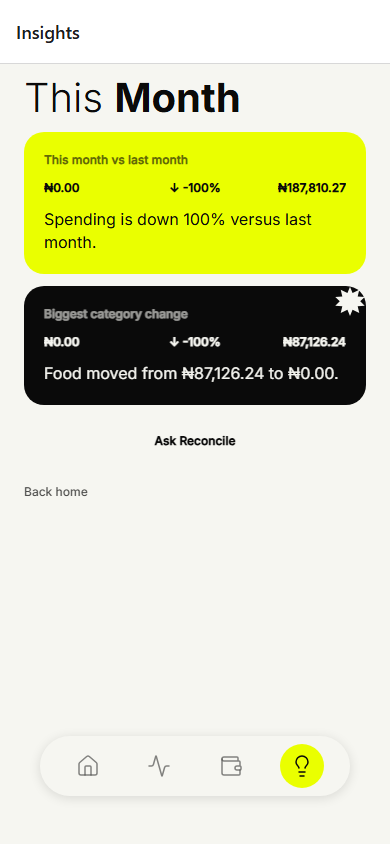
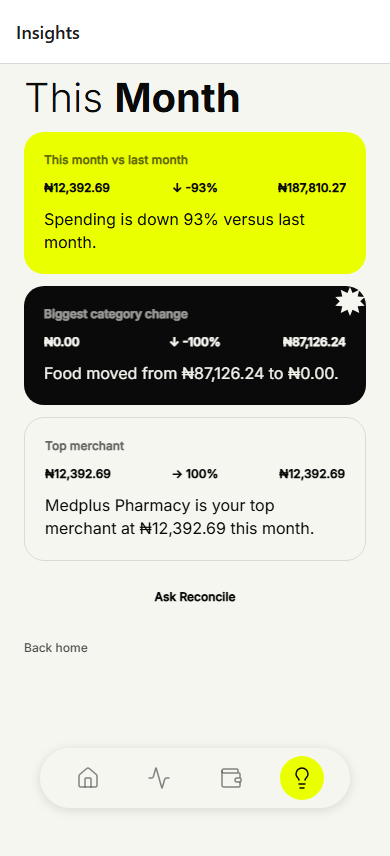
fix: host the mono connect widget in an iframe on web
Enabling EXPO_PUBLIC_FEATURE_MONO surfaced a real defect: react-native-webview
13.16.1 does not support react-native-web. On web the connect screen rendered
"React Native WebView does not support this platform" and no widget, so the
real-bank connect flow was dead on the web build.

Mono's Connect Link is an ordinary hosted web page, so web now renders a plain
iframe and native keeps the real WebView. Completion does not depend on either:
the authoritative channel is the account_connected webhook claiming the
reference reserved by bank-connect-session, which complete() polls on both
platforms. The WebView-only extras (postMessage code capture and per-navigation
callbacks) remain native-only, which matches Mono's documented webhook flow.

Verified with the flag on against live Mono sandbox:
- bank-connect-session reached Mono's POST /v2/accounts/initiate and reserved a
  `pending` bank_connections row with consented_at null.
- The connect screen loaded a live Connect Link:
  https://link.mono.co/ALW4MP4DM7YR (a fresh link per run, so the call is live).
- Demo path and all Phase 10 screens unchanged; no console errors from the app.

The widget's own content does not render in headless Chromium — Mono's CDN
sub-resources fail to resolve there — so the native pass remains authoritative
for completing a connection.

Also adds scripts/mono-webhook-verify.cjs. Supabase now masks secret values in
both `supabase secrets list` and the Management API, so an agent cannot read
[…]

diff --git a/app/connect-bank.tsx b/app/connect-bank.tsx
@@ -17,7 +17,7 @@
 // screen is the connect URL, which is a public, single-use link.
 import { useRouter } from "expo-router";
 import { useCallback, useRef, useState } from "react";
-import { View } from "react-native";
+import { Platform, View } from "react-native";
 import { WebView } from "react-native-webview";
 import { X } from "lucide-react-native";
 import { Button } from "../src/components/Button";
@@ -213,20 +213,43 @@ export default function ConnectBankScreen() {
 
       <View style={{ flex: 1, minHeight: 420 }}>
         {connectUrl ? (
-          <WebView
-            source={{ uri: connectUrl }}
-            originWhitelist={["https://*", "http://*"]}
-            javaScriptEnabled
-            domStorageEnabled
-            sharedCookiesEnabled
-            thirdPartyCookiesEnabled
-            setSupportMultipleWindows={false}
-            mixedContentMode="never"
-            onMessage={onMessage}
-            onNavigationStateChange={onNavigationStateChange}
-            style={{ flex: 1, borderRadius: radius.card, backgroundColor: colors.paper }}
-            testID="connect-bank-webview"
-          />
+          // react-native-webview does not support react-native-web (it throws
+          // "React Native WebView does not support this platform"), and Mono's
+          // Connect Link is an ordinary hosted web page, so web gets a plain
+          // iframe. Native gets a real WebView, which additionally gives us
+          // postMessage and per-navigation callbacks.
+          //
+          // Completion does not depend on either: the authoritative channel is
+          // the account_connected webhook claiming the reserved reference, which
+          // complete() polls on both platforms.
+          Platform.OS === "web" ? (
+            <iframe
+              src={connectUrl}
+              title="Connect your bank"
+              style={{
+                flex: 1,
+                borderRadius: radius.card,
+                border: "none",
+                backgroundColor: colors.paper,
+              }}
+              allow="clipboard-write"
+            />
+          ) : (
+            <WebView
+              source={{ uri: connectUrl }}
+              originWhitelist={["https://*", "http://*"]}
+              javaScriptEnabled
+              domStorageEnabled
+              sharedCookiesEnabled
+              thirdPartyCookiesEnabled
+              setSupportMultipleWindows={false}
+              mixedContentMode="never"
+              onMessage={onMessage}
+              onNavigationStateChange={onNavigationStateChange}
+              style={{ flex: 1, borderRadius: radius.card, backgroundColor: colors.paper }}
+              testID="connect-bank-webview"
+            />
+          )
         ) : (
           <Card variant="paper" testID="connect-bank-cta">
             <Text role="body" color="ink">
